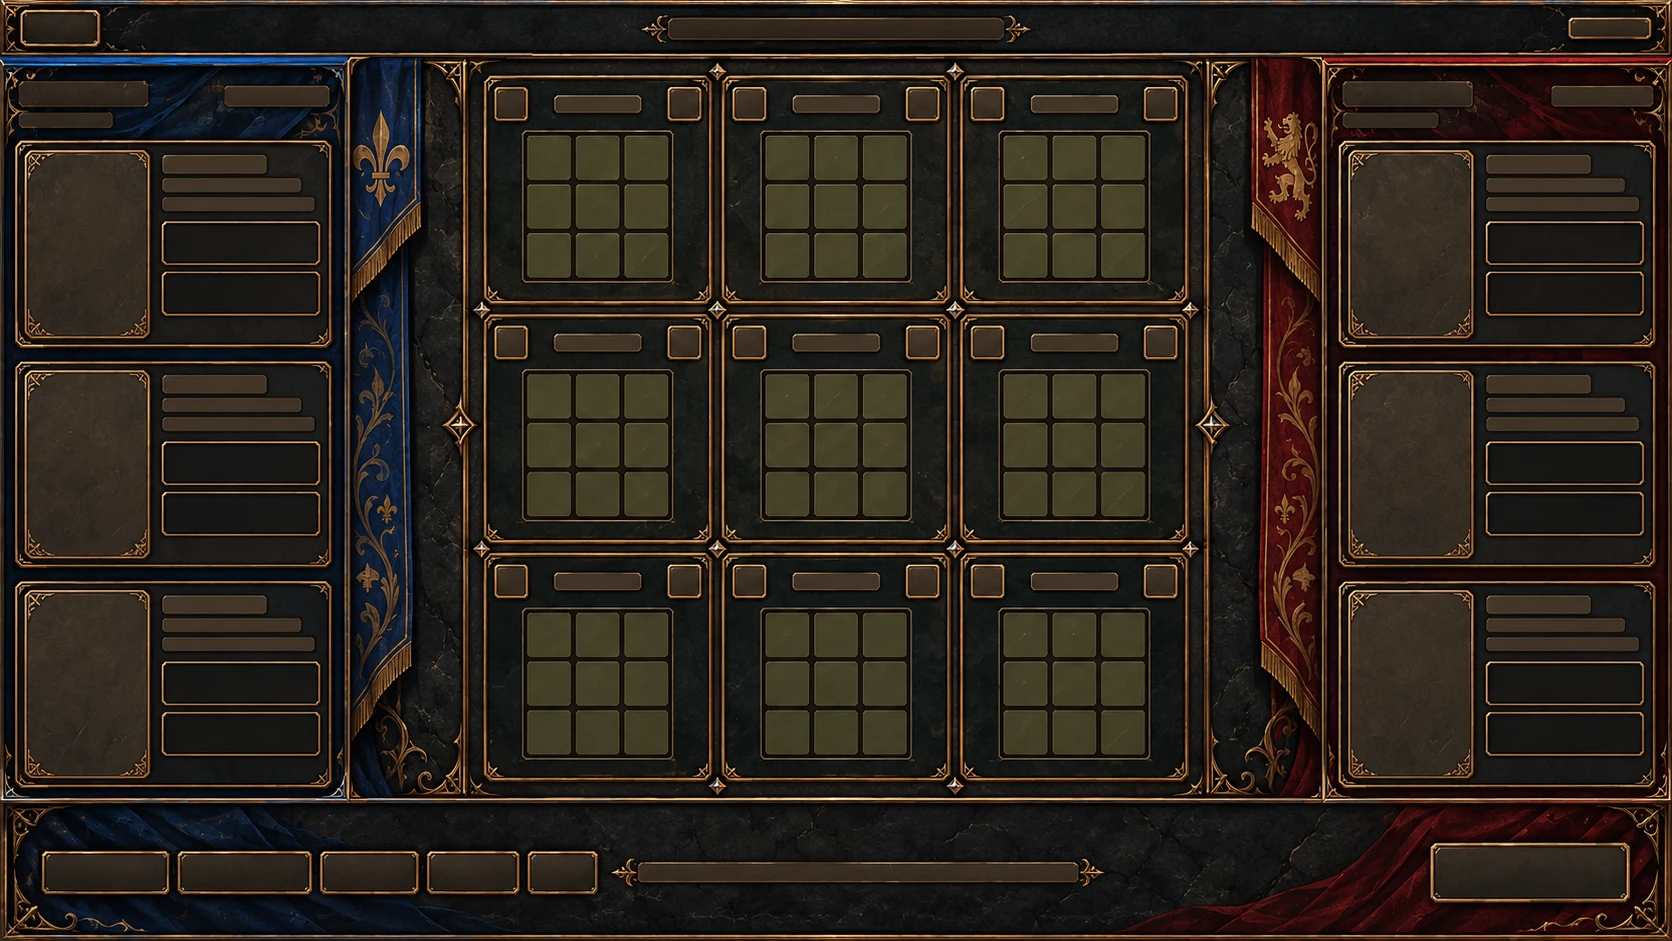
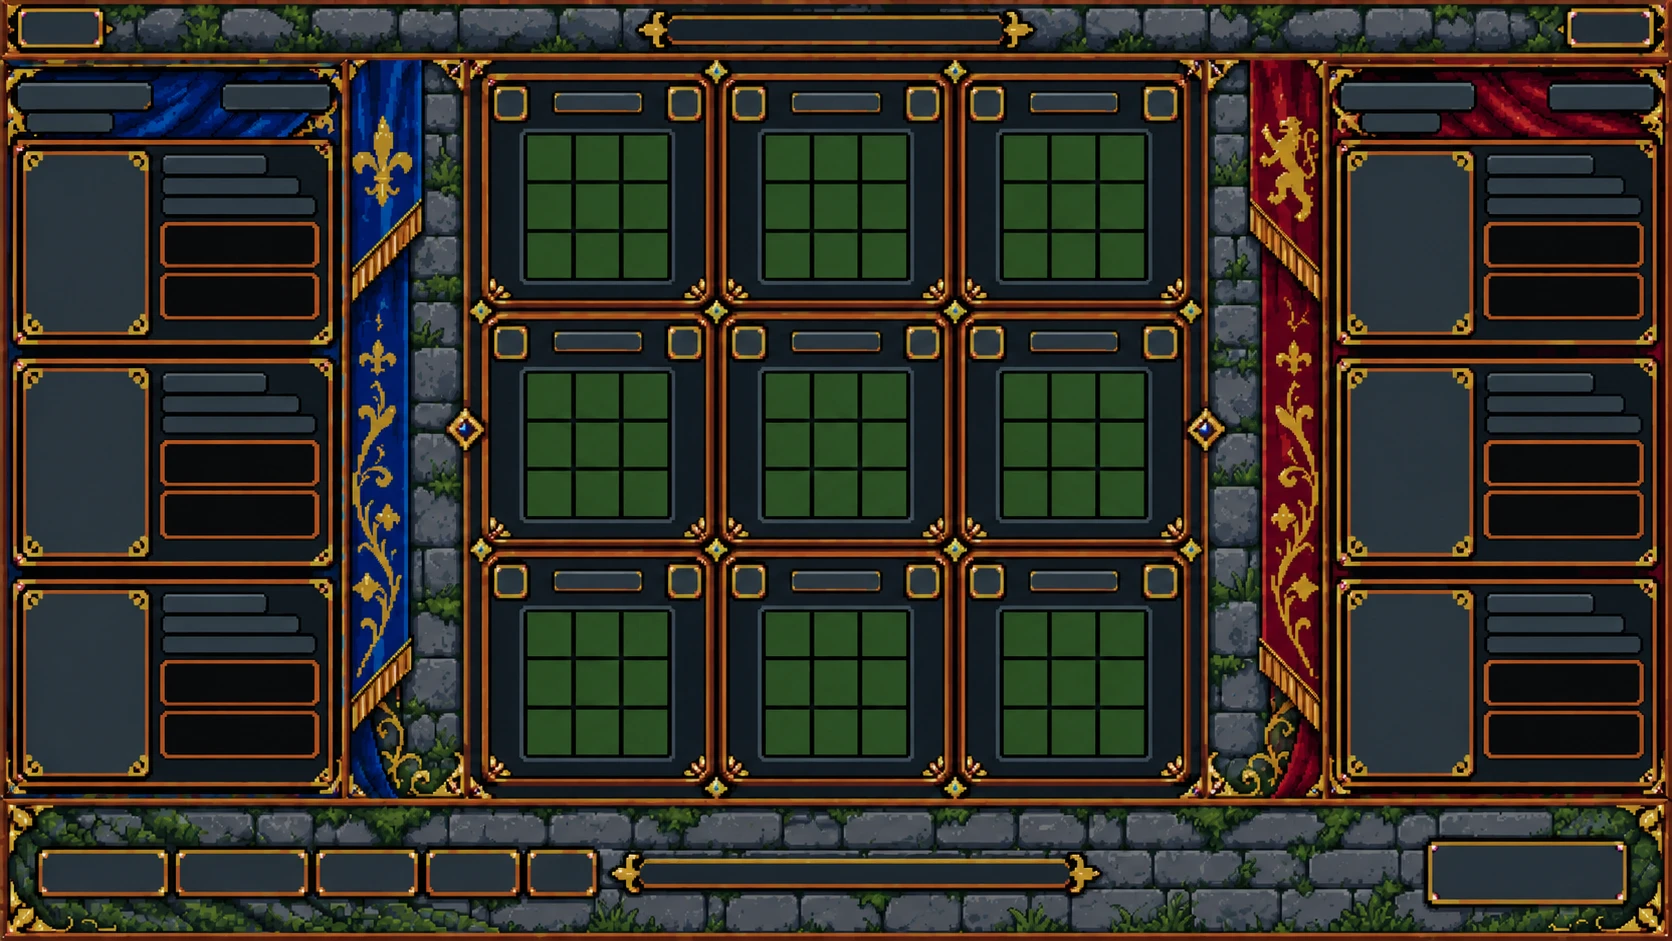
Use the stone-and-moss board art and a grassy field for battles
- Region board skin replaced with the new stone, moss and banner artwork;
  plain fallback colors retuned to its slate palette
- Battles play out on the new field background (sky, mountains, grass)

diff --git a/src/ui/screens/skin.css b/src/ui/screens/skin.css
@@ -8,8 +8,8 @@
  */
 
 .match {
-  --skin-ink: #14120f;
-  --skin-stone: #24211b;
+  --skin-ink: #13171b;
+  --skin-stone: #232a2f;
 }
 
 .match__top-bar,
@@ -67,7 +67,7 @@
 /* The art shows Lord rows; while showing the Captain view the panel goes plain. */
 .player-panel--company {
   background-image: none;
-  background: linear-gradient(180deg, #221f1a 0%, var(--skin-ink) 100%);
+  background: linear-gradient(180deg, #20272c 0%, var(--skin-ink) 100%);
 }
 
 .player-panel--company.player-panel--p1 { box-shadow: inset 0 6px 0 #2a54b8; }
@@ -125,7 +125,7 @@
 
 /* --- Region board --- */
 .board-stage {
-  background: radial-gradient(ellipse at center, #2c2922 0%, var(--skin-ink) 80%);
+  background: radial-gradient(ellipse at center, #26302f 0%, var(--skin-ink) 80%);
 }
 
 .board-stage__regions {
@@ -148,7 +148,7 @@
   position: absolute;
   inset: 0;
   border-radius: 8px;
-  background: rgba(8, 7, 5, 0.55);
+  background: rgba(6, 9, 11, 0.55);
   pointer-events: none;
 }
 
@@ -202,7 +202,7 @@
 }
 
 .phase-window .btn {
-  background: rgba(18, 16, 12, 0.55);
+  background: rgba(14, 18, 22, 0.55);
 }
 
 .phase-window__end-turn {

diff --git a/src/ui/battle/battleView.css b/src/ui/battle/battleView.css
@@ -4,8 +4,8 @@
   inset: 0;
   z-index: 15;
   overflow: clip;
-  background:
-    linear-gradient(180deg, #3b4a5a 0%, #6b6a55 38%, #4f5a33 39%, #39421f 100%);
+  /* Grassy field under a blue sky; the horizon sits behind the enemy's Sergeants. */
+  background: #2f7a2a url('../../assets/ui/battle-field.webp') center 30% / cover no-repeat;
   animation: battle-in 500ms cubic-bezier(0.2, 0.8, 0.2, 1) both;
 }
 

diff --git a/docs/DECISIONS.md b/docs/DECISIONS.md
@@ -42,6 +42,7 @@ Knights have placeholder names, shown as "Sir Gareth" (36 per side, set in `src/
 
 - The match screen uses the owner's 16:9 artwork `src/assets/ui/region-board-skin.webp` (built over the layout wireframe in `design/templates`). Each area (top bar, side panels, Region board, phase window) shows its own slice of it, so the game's boxes sit on the art's frames; the Region board slice zooms with the camera.
 - The art covers the Region board view only. The zoomed-in Region view and the Captain panel use plain colors from the art until they get their own skins.
+- Battles take place on the field artwork `src/assets/ui/battle-field.webp` (sky, mountains and grass), scaled to cover the battle area.
 - Styles live in `src/ui/screens/skin.css`. Any new skin must keep the wireframe's zone positions and sizes.
 
 ## Region view and turn flow on screen — Settled
